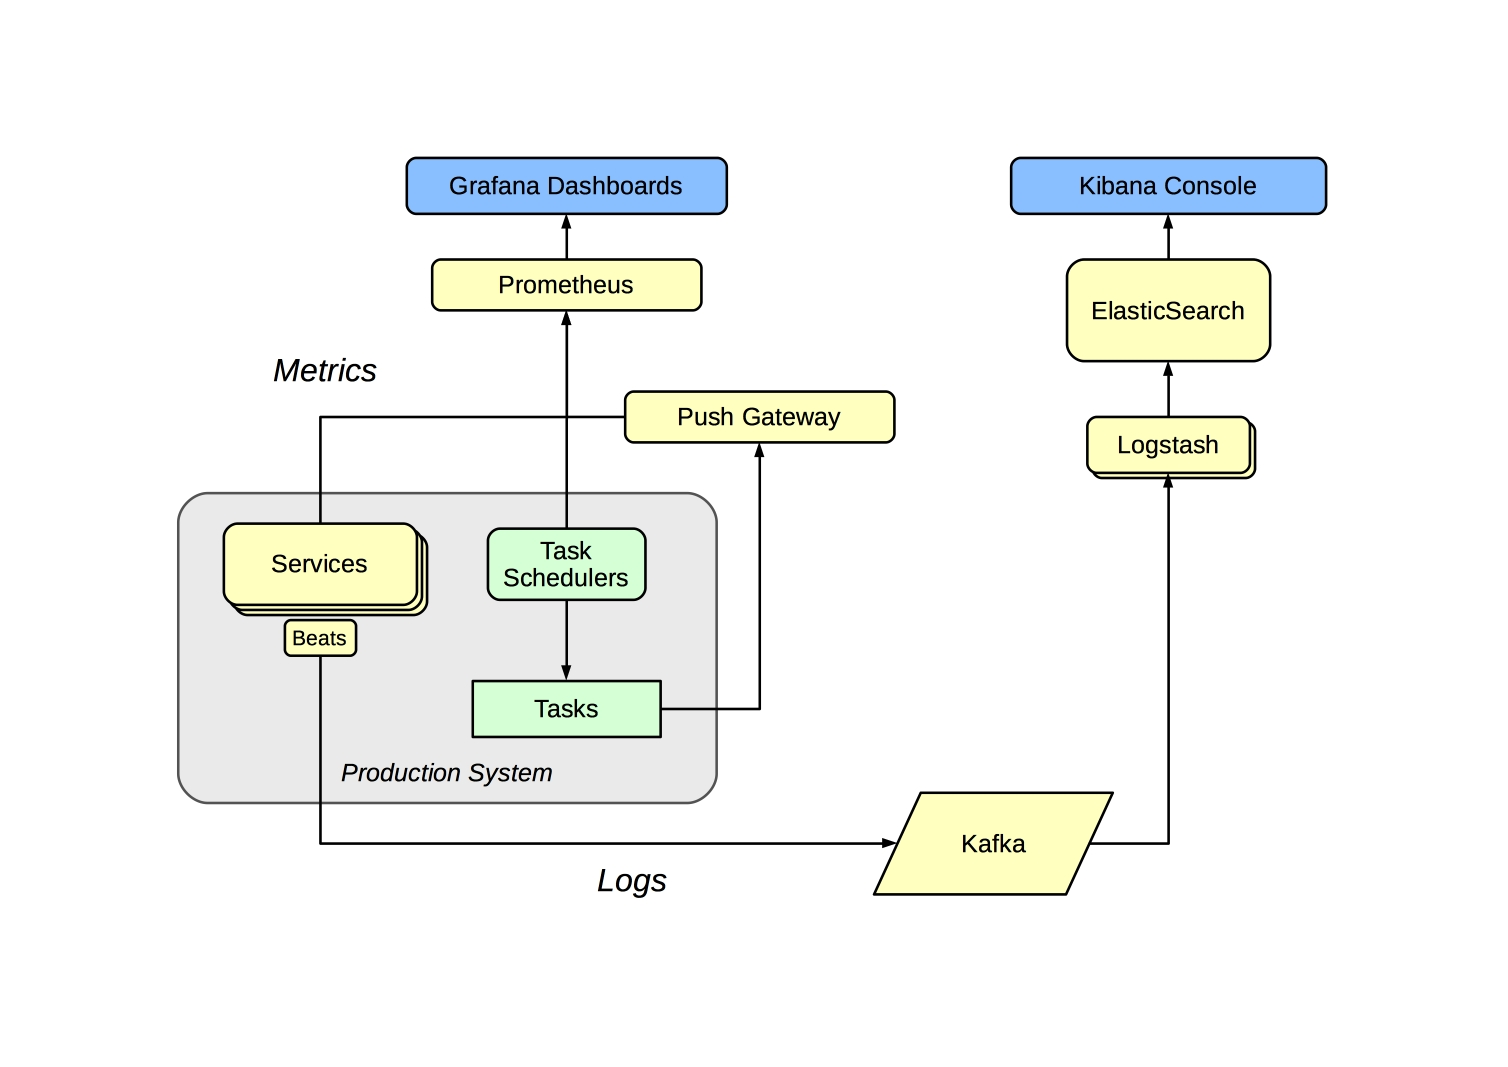
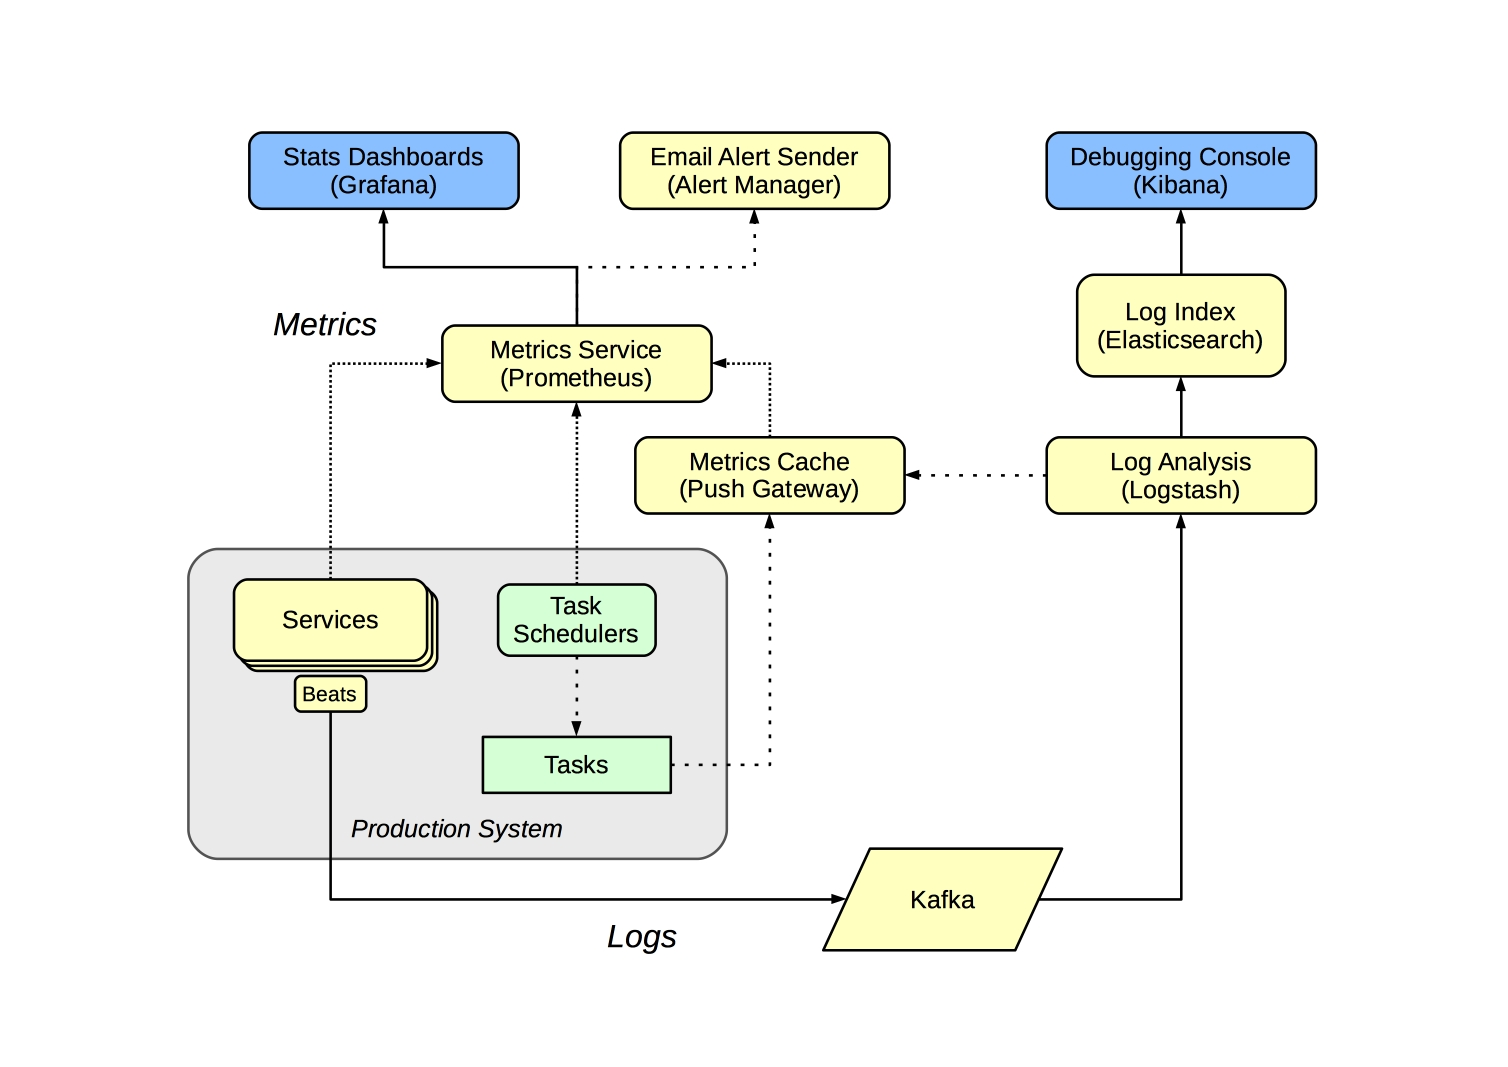
Some attempt to improve the monitoring page.

diff --git a/Monitoring-Services.md b/Monitoring-Services.md
@@ -8,18 +8,24 @@ As our container-oriented crawl system is likely to contain large numbers of sep
 Overall Monitoring Approach
 ---------------------------
 
-Metrics are polled from services, and metrics for batch jobs cached for polling in the Push Gateway (a standard Prometheus component built for this purpose).
-
 ![Monitoring for Alerts, Statistics & Debugging](./drawings/ng-was-monitoring.jpg)
 
-Useful logs and other information is siphoned off servers using [Beats](https://www.elastic.co/products/beats), buffered in Kafka, and then processed and transformed as needed with Logstash before being posted to ElasticSearch. This shorted-term cache of event information is inspected via Kibana, acting as a debugging console.
+The monitoring system handles two classes information - metrics and logs. The metrics are used to generate alerts and statistics, and the logs are cached so we can debug problems.
 
 Alerts & Statistics
 -------------------
 
-The main monitoring system is focussed on exposing metrics that can be used to check the health of the system. For long-running services, this means ensuring those services are up and they are responding in a timely fashion. Batch jobs and tasks can't be queried in this way, so instead are modified to update suitable metrics upon completion, and the monitoring system checks those metrics are being updated as expected.
+The metric monitoring system is focussed on exposing metrics that can be used to check the health of the system. For long-running services, this means ensuring those services are up and they are responding in a timely fashion. Batch jobs and tasks can't be queried in this way, so instead are modified to update suitable metrics upon completion, and the monitoring system checks those metrics are being updated as expected.
 
-We use [Prometheus](https://prometheus.io/) to record and track these metrics, and [Grafana](https://grafana.com/) to provide a sutiable service summary screen. We use Prometheus's ['blackbox exporter'](https://github.com/prometheus/blackbox_exporter) to monitor generic HTTP endpoints, and the ['pushgateway'](https://prometheus.io/docs/instrumenting/pushing/) to record metrics from batch jobs.
+We use the [Prometheus](https://prometheus.io/) metrics service to record and track these metrics, and [Grafana](https://grafana.com/) to provide a sutiable service summary screen. We can add [alert rules](https://prometheus.io/docs/alerting/rules/) to watch out for problems, and Prometheus will notify us via the [alert manager](https://prometheus.io/docs/alerting/alertmanager/) component.
+
+We use Prometheus's ['blackbox exporter'](https://github.com/prometheus/blackbox_exporter) to monitor our groups of HTTP services, and there are a large number of other [exporters and integrations](https://prometheus.io/docs/instrumenting/exporters/) we use to monitor common software applications.
+
+Services that are specific to us require additional ['exporters'](https://prometheus.io/docs/instrumenting/writing_exporters/) or [instrumentation](https://prometheus.io/docs/instrumenting/clientlibs/) to make the metrics available, but these are few in number and mostly just require us to re-factor our existing monitoring code.
+
+For batch tasks, each should post suitable metrics to the [Push Gateway](https://prometheus.io/docs/instrumenting/pushing/) when completed, and the metric dashboard and alerts should be configured to monitor that the task has executed successfully within the expected time-frame.
+
+For example, when we back-up the W3ACT database, [once the task chain complete successfully](http://luigi.readthedocs.io/en/stable/tasks.html#events-and-callbacks), we post a timestamp and the size of the backup (in bytes) as metrics via the Push Gateway. These are polled by Prometheus, from where we can use Grafana to check that a backup has occurred in the last X hours, and that the new backup is of the expected size (roughly the same or larger than the previous backup). Raising alerts in this way, based on tests of expected outcomes, is much more robust than expecting that we will always be reliably alerted when a task fails to run.
 
 Areas to monitor:
 
@@ -29,19 +35,13 @@ Areas to monitor:
 - Check Crawler local disk space etc.
 - Check AMQP/Kafka queues.
 
-Although our non-standard services require these additional ['exporters'](https://prometheus.io/docs/instrumenting/writing_exporters/) or [instrumentation](https://prometheus.io/docs/instrumenting/clientlibs/) to make the metrics available, these are simple to write and just involve re-factoring our existing monitoring code.
-
-For batch tasks, each should post suitable metrics to the [Push Gateway](https://prometheus.io/docs/instrumenting/pushing/) when completed, and the metric dashboard and alerts should be configured to monitor that the task has executed successfully within the expected time-frame.
-
-For example, when we back-up the W3ACT database, [once the task chain complete successfully](http://luigi.readthedocs.io/en/stable/tasks.html#events-and-callbacks), we post a timestamp and the size of the backup (in bytes) as metrics via the Push Gateway. These are polled by Prometheus, from where we can use Grafana to check that a backup has occurred in the last X hours, and that the new backup is of the expected size (roughly the same or larger than the previous backup). Raising alerts in this way, based on tests of expected outcomes, is much more robust than expecting that we will always be reliably alerted when a task fails to run.
-
 
 Log Indexing & Debugging Console
 --------------------------------
 
 Service logs and other events (like crawl events) routed from servers e.g. using `filebeat` to send logs to a Kafka service from which `logstash` can consume events and then push the results to `elasticsearch`. This data can be inspected via [Kibana](https://www.elastic.co/products/kibana), which acts as a 'debugging console' that be used to work our what's happening. Using Kafka as the transport makes it possible for all such logging processes to be done in a consistent manner without them being tightly-coupled.
 
-In contrast to the alerting & statistics system, only the recent logs are kept here. Any 'formal' reporting should be implemented as ingest or access tasks rather than done here.
+In contrast to the alerting & statistics system, only the recent logs are kept here, although some useful metrics may be extracted from the logs and passed to the metrics service for tracking. Any 'formal' reporting should be implemented as ingest or access tasks rather than done here.
 
 Debugging of specific batch tasks should be possible via the Luigi Scheduler interfaces. In this case, the goal of the monitoring layer is to route you to the correct Luigi Scheduler and task result.
 
